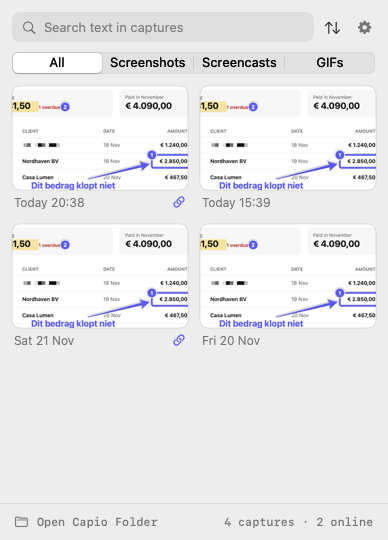
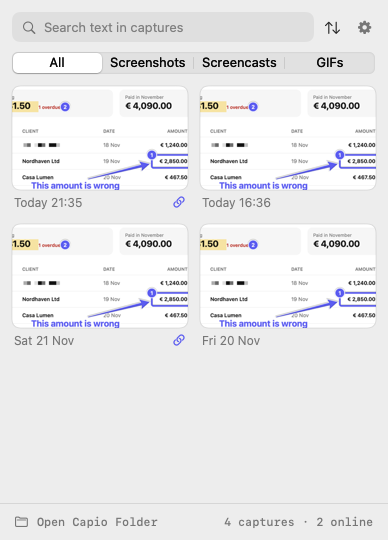
docs: demo screens in English

diff --git a/Sources/Capio/Snapshot.swift b/Sources/Capio/Snapshot.swift
@@ -36,7 +36,7 @@ enum Snapshot {
             Annotation(tool: .obfuscate, color: Palette.indigo, points: [CGPoint(x: 272, y: 293), CGPoint(x: 410, y: 319)]),
             Annotation(tool: .rectangle, color: Palette.indigo, points: [CGPoint(x: 598, y: 330), CGPoint(x: 696, y: 362)]),
             Annotation(tool: .arrow, color: Palette.indigo, points: [CGPoint(x: 440, y: 390), CGPoint(x: 594, y: 352)]),
-            Annotation(tool: .text, color: Palette.indigo, points: [CGPoint(x: 300, y: 392)], text: "Dit bedrag klopt niet"),
+            Annotation(tool: .text, color: Palette.indigo, points: [CGPoint(x: 300, y: 392)], text: "This amount is wrong"),
             Annotation(tool: .number, color: Palette.indigo, points: [CGPoint(x: 598, y: 330)], number: 1),
             Annotation(tool: .number, color: Palette.indigo, points: [CGPoint(x: 384, y: 211)], number: 2),
         ]
@@ -78,7 +78,7 @@ enum Snapshot {
         try save(try await render(ToastView(model: Toast.shared)), dir, "5-toast-saved")
         Toast.shared.demo(.uploading(.screenshot, 0.64), thumbnail: thumb)
         try save(try await render(ToastView(model: Toast.shared)), dir, "5-toast-uploading")
-        Toast.shared.demo(.link("https://files.example.net/v/b5xtyw34ww"), thumbnail: thumb)
+        Toast.shared.demo(.link("https://files.example.net/v/k3x9m2p7qa"), thumbnail: thumb)
         try save(try await render(ToastView(model: Toast.shared)), dir, "6-toast-link")
         Toast.shared.demo(.error("Upload failed", "Amfora answered 401: Invalid API key. The file is saved and on your clipboard."), thumbnail: nil)
         try save(try await render(ToastView(model: Toast.shared)), dir, "7-toast-error")
@@ -241,20 +241,20 @@ enum Snapshot {
         NSBezierPath(roundedRect: NSRect(x: 178, y: 168, width: 324, height: 68), xRadius: 12, yRadius: 12).fill()
         NSBezierPath(roundedRect: NSRect(x: 518, y: 168, width: 324, height: 68), xRadius: 12, yRadius: 12).fill()
         text("Outstanding", 11.5, .regular, NSColor(white: 0.45, alpha: 1), at: CGPoint(x: 192, y: 180))
-        text("€ 3.131,50", 22, .bold, NSColor(white: 0.08, alpha: 1), at: CGPoint(x: 192, y: 195))
+        text("€ 3,131.50", 22, .bold, NSColor(white: 0.08, alpha: 1), at: CGPoint(x: 192, y: 195))
         text("1 overdue", 11.5, .semibold, NSColor(srgbRed: 0.7, green: 0.14, blue: 0.1, alpha: 1), at: CGPoint(x: 318, y: 205))
         text("Paid in November", 11.5, .regular, NSColor(white: 0.45, alpha: 1), at: CGPoint(x: 532, y: 180))
-        text("€ 4.090,00", 22, .bold, NSColor(white: 0.08, alpha: 1), at: CGPoint(x: 532, y: 195))
+        text("€ 4,090.00", 22, .bold, NSColor(white: 0.08, alpha: 1), at: CGPoint(x: 532, y: 195))
 
         let cols: [CGFloat] = [178, 278, 478, 568, 710]
         for (i, head) in ["INVOICE", "CLIENT", "DATE", "AMOUNT", "STATUS"].enumerated() {
             text(head, 11, .semibold, NSColor(white: 0.45, alpha: 1), at: CGPoint(x: i == 3 ? 636 : cols[i], y: 264))
         }
-        let rows = [("INV 2041", "Brightline Studio", "18 Nov", "€ 1.240,00", "Paid"),
-                    ("INV 2042", "Nordhaven BV", "19 Nov", "€ 2.850,00", "Open"),
-                    ("INV 2043", "Casa Lumen", "20 Nov", "€ 467,50", "Overdue"),
-                    ("INV 2044", "Kestrel Labs", "21 Nov", "€ 980,00", "Draft"),
-                    ("INV 2045", "Halvar & Co", "21 Nov", "€ 1.725,00", "Draft")]
+        let rows = [("INV 2041", "Brightline Studio", "18 Nov", "€ 1,240.00", "Paid"),
+                    ("INV 2042", "Nordhaven Ltd", "19 Nov", "€ 2,850.00", "Open"),
+                    ("INV 2043", "Casa Lumen", "20 Nov", "€ 467.50", "Overdue"),
+                    ("INV 2044", "Kestrel Labs", "21 Nov", "€ 980.00", "Draft"),
+                    ("INV 2045", "Halvar & Co", "21 Nov", "€ 1,725.00", "Draft")]
         for (i, r) in rows.enumerated() {
             let y = 286 + CGFloat(i) * 40
             NSColor(white: 0.93, alpha: 1).setFill()

diff --git a/Sources/capio-selftest/main.swift b/Sources/capio-selftest/main.swift
@@ -90,13 +90,13 @@ let dot = pixel(ctx, 142, 25)
 check(dot.2 > 200 && dot.0 < 140, "number disc is indigo (got \(dot))")
 let digitWhite = (-5...5).contains { dx in (-5...5).contains { dy in let q = pixel(ctx, 150 + dx, 25 + dy); return q.0 > 230 && q.1 > 230 && q.2 > 230 } }
 check(digitWhite, "number shows a white digit inside the disc")
-check(AnnotationRenderer.textBounds("Dit bedrag klopt niet", at: CGPoint(x: 5, y: 5)).width > 150, "text has a measurable width")
+check(AnnotationRenderer.textBounds("This amount is wrong", at: CGPoint(x: 5, y: 5)).width > 150, "text has a measurable width")
 
 // MARK: history
 let dir = FileManager.default.temporaryDirectory.appendingPathComponent("capio-selftest-\(UUID().uuidString)")
 let index = dir.appendingPathComponent("history.json")
 let t0 = Date(timeIntervalSince1970: 1_795_000_000)
-let older = CaptureRecord(fileName: "Capio a.png", kind: .screenshot, createdAt: t0, bytes: 1000, pixelWidth: 10, pixelHeight: 10, ocrText: "Factuur Nordhaven")
+let older = CaptureRecord(fileName: "Capio a.png", kind: .screenshot, createdAt: t0, bytes: 1000, pixelWidth: 10, pixelHeight: 10, ocrText: "Invoice Nordhaven")
 let newer = CaptureRecord(fileName: "Capio b.mp4", kind: .screencast, createdAt: t0.addingTimeInterval(60), bytes: 5000, pixelWidth: 10, pixelHeight: 10, duration: 48)
 do {
     let store = HistoryStore(indexURL: index)
